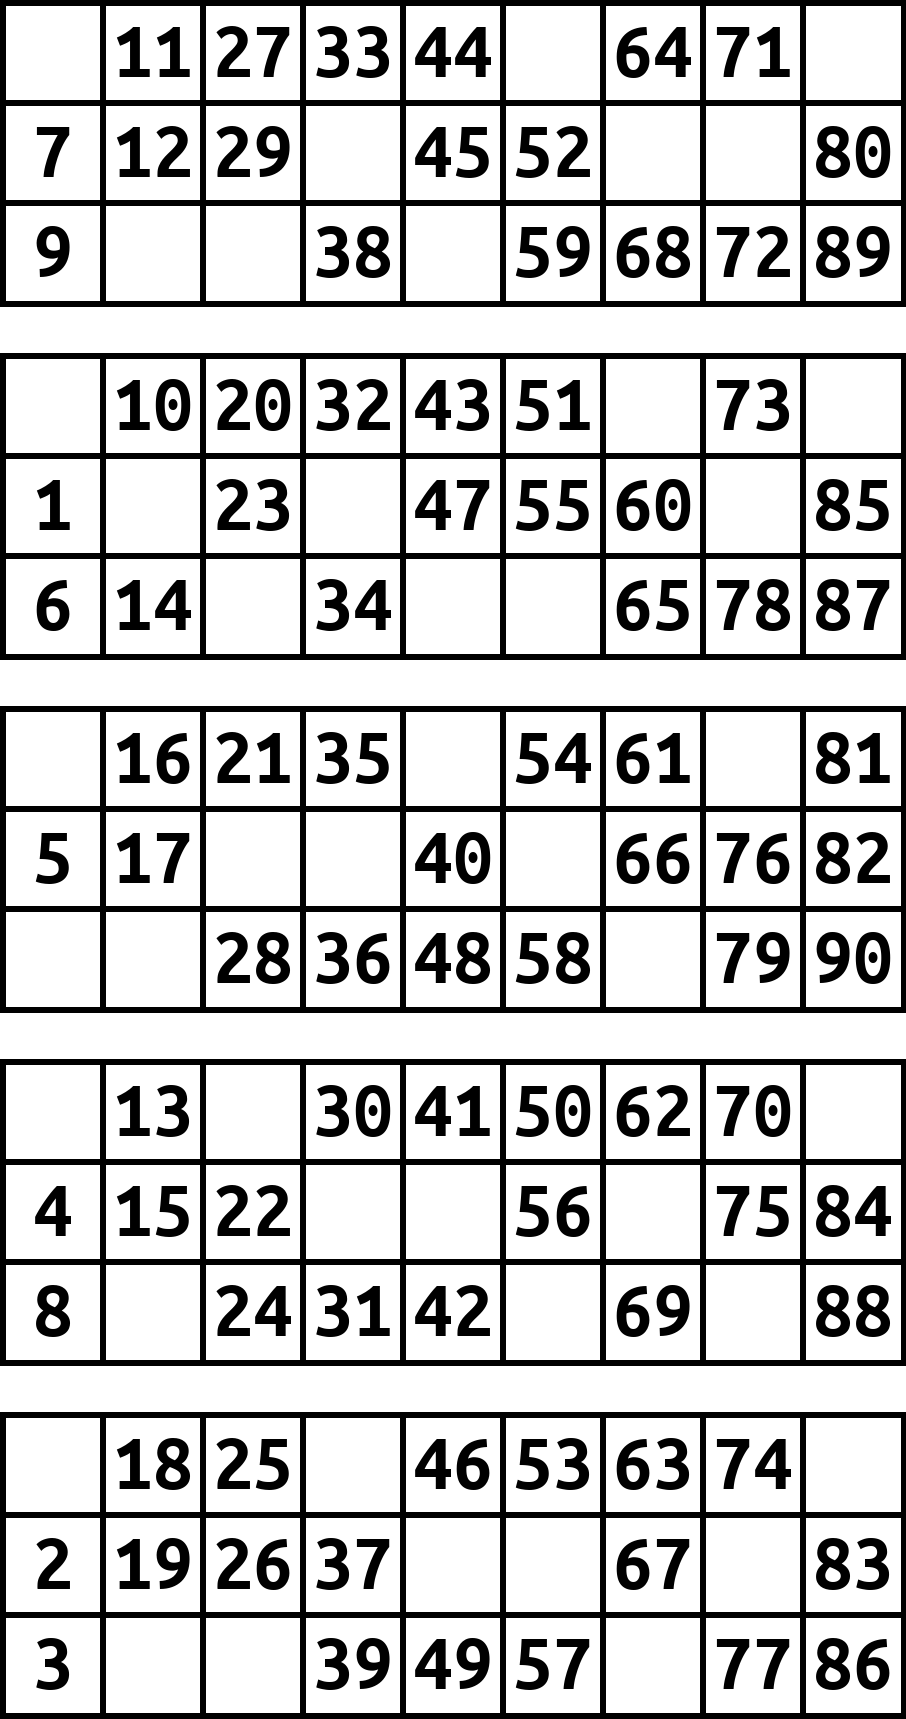
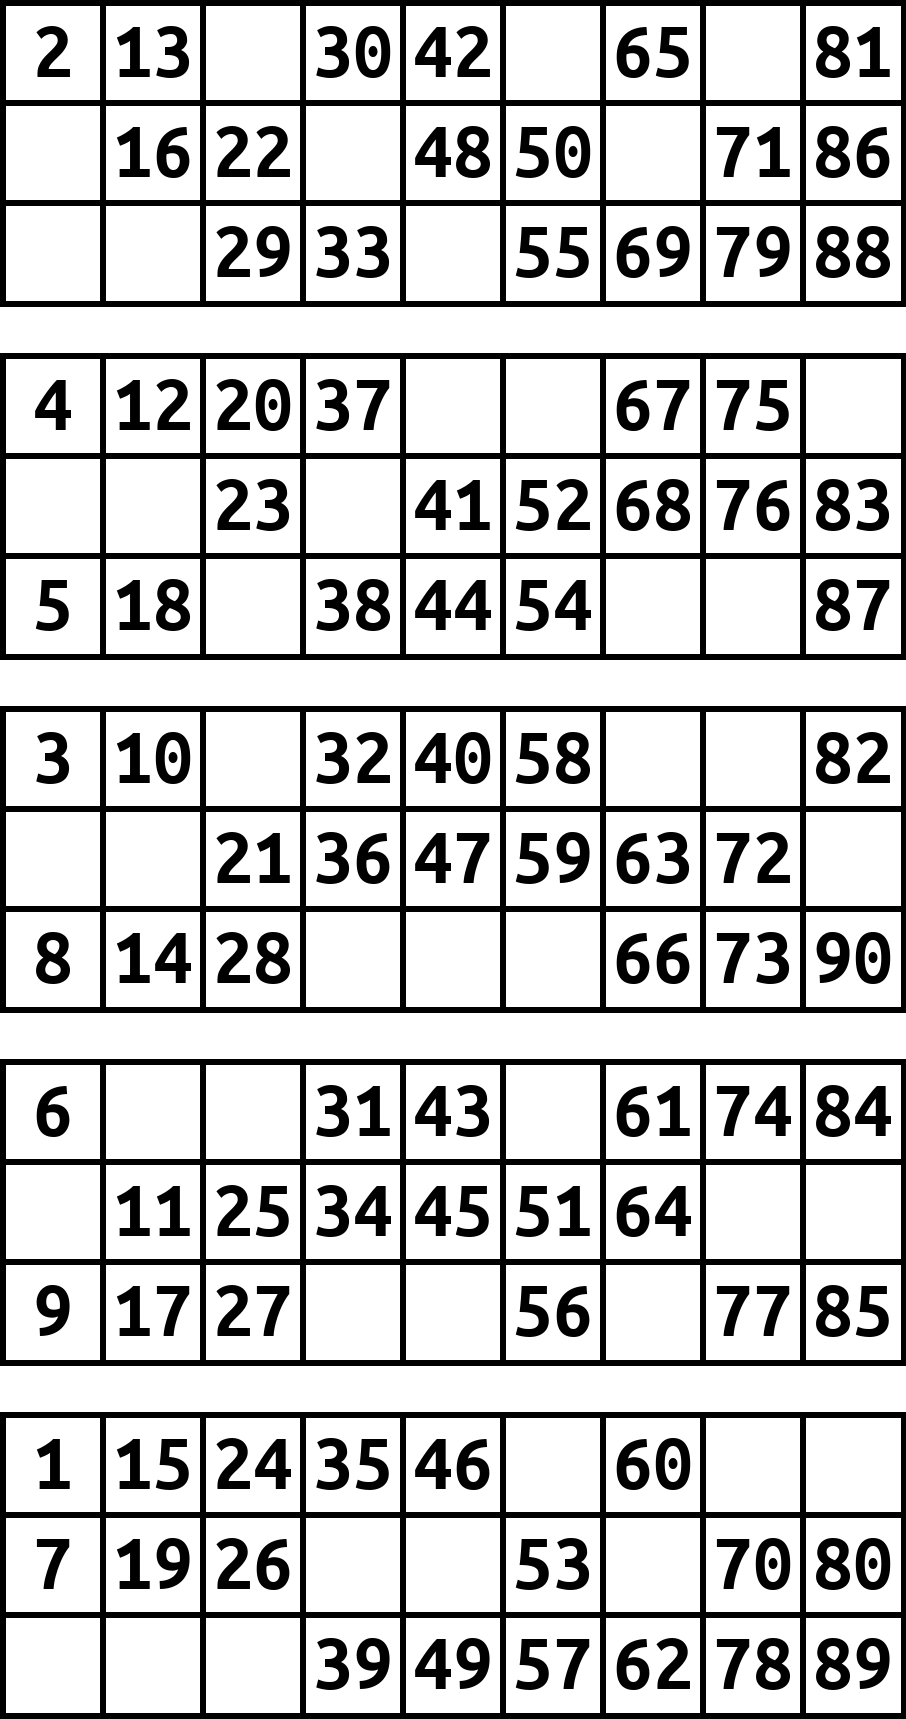
clean up
cleaned code, so the ugly parts are changed.

diff --git a/Bingo.py b/Bingo.py
@@ -42,14 +42,14 @@ def BingoSheet(bingoNumber:int = 0):
         # its important to match the first and the last special column
         if i == 0:
             currNums = np.split(numberList[i][1:],4)
-            currNums.append(np.array(numberList[i][0]))
+            currNums.append(numberList[i][0])
             rng.shuffle(currNums)
             for ind, element in enumerate(currNums):
                 if element.size == 1:
                     specialIndex = ind
         elif i == 8:
             currNums = np.split(numberList[i][3:],4)
-            currNums.append(np.array(numberList[i][0:3]))
+            currNums.append(numberList[i][0:3])
             rng.shuffle(currNums)
             # align special columns
             for ind, element in enumerate(currNums):
@@ -69,11 +69,10 @@ def BingoSheet(bingoNumber:int = 0):
             elif currNums[ii].size==3:
                 blank = []
             else:
-                blank = blankList[i].pop(0)
+                blank = [blankList[i].pop(0)]
 
-            
-            counter = 0
             if currNums[ii].size>1: currNums[ii] = np.sort(currNums[ii])
+            currNums[ii] = currNums[ii].tolist()
             for iii in range(3):
                 # iii stands for the three columns in one rectangle
                 # img1.rectangle draws the squares
@@ -81,24 +80,15 @@ def BingoSheet(bingoNumber:int = 0):
                                 (m*i+m+border, m*(iii+ii*3)+m+border+ii*hB)], 
                                fill = (255,255,255), 
                                outline = (0,0,0), width=border)
-                try:
-                    if iii not in blank:
-                        try:
-                            number = currNums[ii][counter]
-                        except: number = currNums[ii]
-                        img1.text((m*i+m/2+border/2,m*(iii+ii*3)+ii*hB+m/2+size/3), 
-                                  str(number),
-                                  fill=(0,0,0), font=font, anchor = "ms")
-                        counter += 1
-                except:
-                    if iii != blank:
-                        try:
-                            number = currNums[ii][counter]
-                        except: number = currNums[ii]
-                        img1.text((m*i+m/2+border/2,m*(iii+ii*3)+ii*hB+m/2+size/3), 
-                                  str(number),
-                                  fill=(0,0,0), font=font, anchor = "ms")
-                        counter += 1
+
+                if iii not in blank:
+                    if isinstance(currNums[ii], int):
+                        currNums[ii] = [currNums[ii]]
+                    number = currNums[ii].pop(0)
+                    img1.text((m*i+m/2+border/2,m*(iii+ii*3)+ii*hB+m/2+size/3), 
+                              str(number),
+                              fill=(0,0,0), font=font, anchor = "ms")
+
             
     img.save(f"BingoBlaetter/BingoGanz{abs(bingoNumber)}.png")
     
